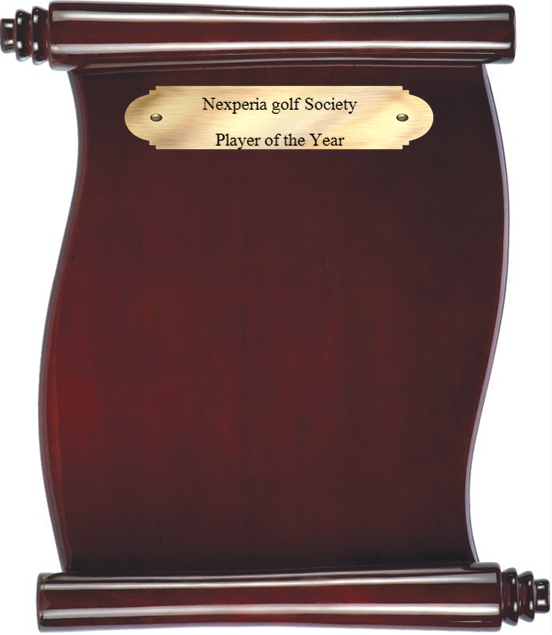
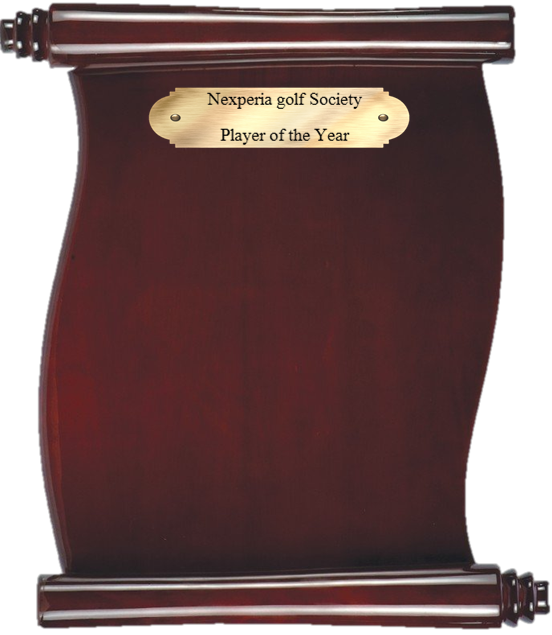
hall of fame

diff --git a/public/index.html b/public/index.html
@@ -422,7 +422,7 @@
                                 <img class = "img-rounded" style="display:inline-block" src="img/playeroftheyear.png" alt=""  align="right" >
                             </div>
                             
-                            <div class="text-center" align="center" style="position:relative;">
+                            <div class="text-center" align="center" style="position:relative;background-image:url(img/background2.png)">
                                 <img class = "img-rounded" src="img/halloffame.png" style=""  alt="" align="center" >
                                 
                                 <div  style="position:absolute; top: 175px; left: 275px; z-index: 1;">
